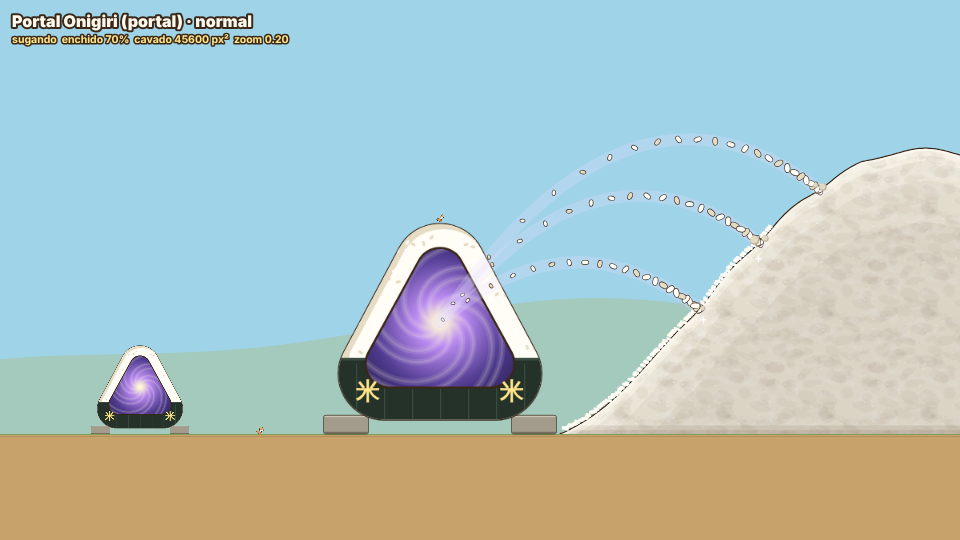
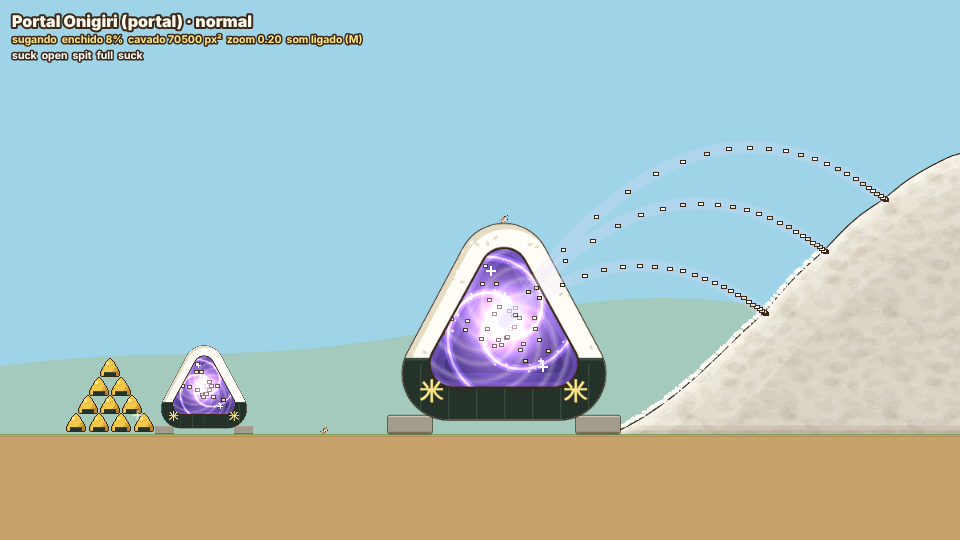
Kome: Portal Onigiri polido (onigiri em pixel art nítido, vórtice em camadas, cuspe com quique e monte recolhido, Kome agarrado com orelhas no vento, sons próprios)
Claude-Session: https://claude.ai/code/session_01QMuA8b6SJ9Cv2sd7LT1RZF

diff --git a/kome/game/portal.js b/kome/game/portal.js
@@ -6,7 +6,7 @@
    Depende de: core.js, pix.js, shiba.js, fx.js (só Draw/drawShiba de fato). Molde: trembala.js.
 
    Interface comum: G.Tools.portal = {id, name, kind, w, h, meta, create(opts), update(m,dt,inp), draw(g,m), bite(m), bites(m),
-   dump(m), seat(m), dig(m, heap, area, o), horizon(g, o), prebake(level?)}.
+   dump(m), seat(m), dig(m, heap, area, o), horizon(g, o), prebake(level?), silence(m)}.
    Espaço do modelo: origem no chão sob o anel grande; +x = lado da montanha (inp.face); escala fixa 1. Anel de x −650 a +650, topo
    y ≈ −1310; portal gêmeo em dx −1.500 (centro y ≈ −330). Mordidas em dx 1.300 / 1.600 / 1.900 na superfície (inp.floor).
    m.x pega inp.x só no 1º update. inp: x, y, face, floor(x), digging (false = vórtice em marcha lenta, sem chupar), speedMul, parts, night.
@@ -14,6 +14,11 @@
    (carrega, fica dourado) · 9 'spit' (PAGAR AQUI com m.payload; o gêmeo cospe ~14 onigiris dourados até 11; m.flash) · 12 = 0.
    Modo 'chegada' (meta.chegadaT = 8 s): 24 onigiris voam de fora e montam o anel ('clink'), 'ignite' 3.5 (flash, shake, vórtice
    nasce), título (m.title) 4, 'twin' 5 (o gêmeo aparece), 'ready' 8 → 'normal' (ct = 0).
+   Cuspe: os onigiris (pixel art 22×22, 16 rotações prontas, pixel inteiro de tela) saem em arco, quicam 2× e empilham num monte
+   (pirâmide 4-3-2-1 ao lado do gêmeo); quando tudo assenta, o monte fica 0,7 s à mostra e é recolhido (pulam pro coletor = moedas).
+   Kome: 'gasp' agarrado e orelhas batendo enquanto chupa; 'cheer' no cuspe. SOM próprio (E.Sfx.define/E.Loops.define, nomes
+   'portal-*'): vento em loop que sobe de tom com m.fill, pop/ploc do cuspe, sino quando o monte é recolhido. Respeita
+   E.Audio.muted e S.opts.mute; create({sfx:false}) ou inp.sfx=false desliga; silence(m) para o loop (chamar ao sair da tela).
    Ler: m.phase ('abrindo','sugando','carregando','cuspindo','chegada'), m.fill, m.payload, m.spin (0..1 força do vórtice),
    m.gold (0..1), m.flash, m.shakeK, m.cam {x,y,z}, m.title. */
 (function () {
@@ -283,7 +288,8 @@
       if (spitting) { m.spitAcc += d * 5.5; while (m.spitAcc >= 1) { m.spitAcc--; spitOne(m); } }
       // recolhe o monte (de cima pra baixo) depois do cuspe
       let busy = spitting; for (const o of m.oni) if (o.st === 'fly' || o.st === 'settle') { busy = true; break; }
-      if (!busy && m.pile > 0) {
+      m.restT = busy ? 0 : (m.restT || 0) + dt;   // o monte fica à mostra um instante antes de ser recolhido
+      if (m.restT > 0.7 && m.pile > 0) {
         m.collectAcc += dt * 22;
         while (m.collectAcc >= 1) {
           m.collectAcc--;
